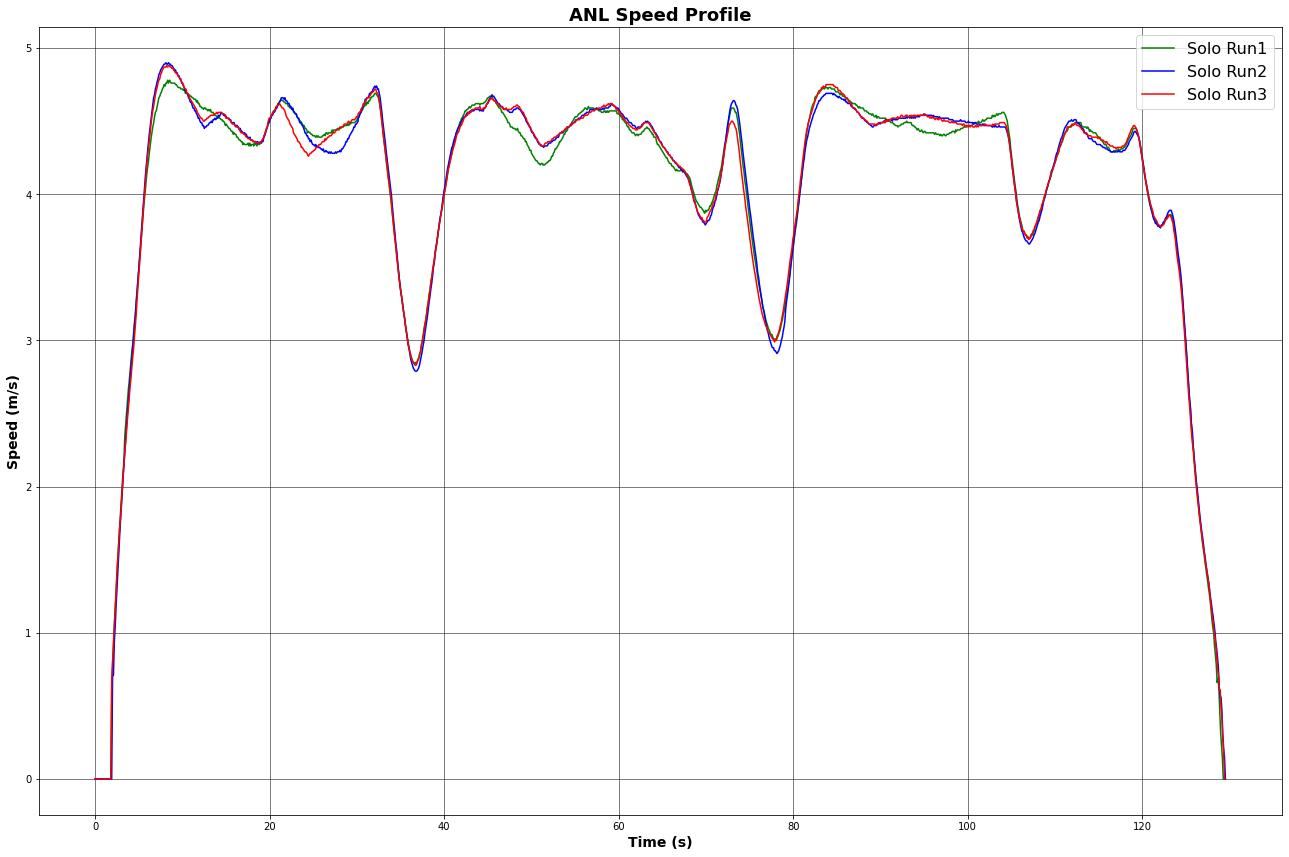
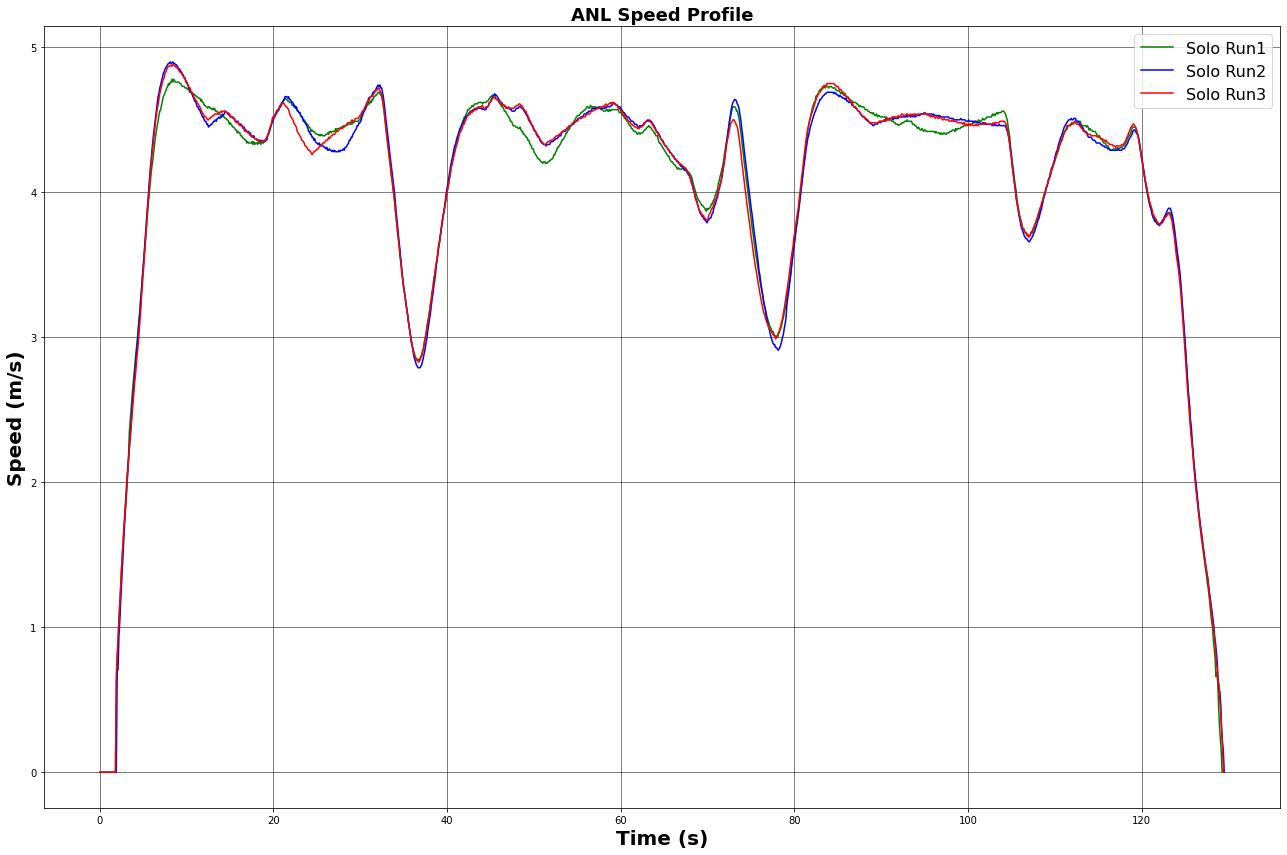
modified the plot tick

diff --git a/src/tools/eco-metric-analysis/DataManager.py b/src/tools/eco-metric-analysis/DataManager.py
@@ -33,45 +33,48 @@ class DataManager:
             roundNo = 0
             
             fig1, ax1 = plt.subplots(figsize=(18,12))                
-            ax1.set_xlabel('Time (s)', fontsize = 14, fontweight='bold')
-            ax1.set_ylabel('Trans_oil_temp_CAN__C', fontsize = 14, fontweight='bold')
+            ax1.set_xlabel('Time (s)', fontsize = 20, fontweight='bold')
+            ax1.set_ylabel('Trans_oil_temp_CAN__C', fontsize = 20, fontweight='bold')
             ax1.set_title('Transmission Oil Temperature [C]', fontsize = 18, fontweight = 'bold')
             ax1.grid(color = 'black', linestyle = '-', linewidth = 0.5)
             ax1.set_ylim(0,50)
-            
+            # Set tick parameters
+            ax1.tick_params(axis='both', which='major', labelsize=16)  # Major ticks
+            ax1.tick_params(axis='both', which='minor', labelsize=14)  # Minor ticks
+                        
             
             fig2, ax2 = plt.subplots(figsize=(18,12))                
-            ax2.set_xlabel('Time (s)', fontsize = 14, fontweight='bold')
-            ax2.set_ylabel('Motor_1_temp_calc_DMCM1__C', fontsize = 14, fontweight='bold')
+            ax2.set_xlabel('Time (s)', fontsize = 20, fontweight='bold')
+            ax2.set_ylabel('Motor_1_temp_calc_DMCM1__C', fontsize = 20, fontweight='bold')
             ax2.set_title('Motor Temperature [C]', fontsize = 18, fontweight = 'bold')
             ax2.grid(color = 'black', linestyle = '-', linewidth = 0.5)
             ax2.set_ylim(0,50)
             
             fig3, ax3 = plt.subplots(figsize=(18,12))                
-            ax3.set_xlabel('Time (s)', fontsize = 14, fontweight='bold')
-            ax3.set_ylabel('Motor_1_inverter_temp_sensor1_DMCM1__C', fontsize = 14, fontweight='bold')
+            ax3.set_xlabel('Time (s)', fontsize = 20, fontweight='bold')
+            ax3.set_ylabel('Motor_1_inverter_temp_sensor1_DMCM1__C', fontsize = 20, fontweight='bold')
             ax3.set_title('Motor Inverter Temperature [C]', fontsize = 18, fontweight = 'bold')
             ax3.grid(color = 'black', linestyle = '-', linewidth = 0.5)
             ax3.set_ylim(0,50)
             
             
             fig4, ax4 = plt.subplots(figsize=(18,12))                
-            ax4.set_xlabel('Time (s)', fontsize = 14, fontweight='bold')
-            ax4.set_ylabel('HVBatt_electronics_coolant_pump_command_HPCM2__per', fontsize = 14, fontweight='bold')
+            ax4.set_xlabel('Time (s)', fontsize = 20, fontweight='bold')
+            ax4.set_ylabel('HVBatt_electronics_coolant_pump_command_HPCM2__per', fontsize = 18, fontweight='bold')
             ax4.set_title('Coolant Pump Command [%]', fontsize = 18, fontweight = 'bold')
             ax4.grid(color = 'black', linestyle = '-', linewidth = 0.5)
-            ax4.set_ylim(0,60)
+            ax4.set_ylim(0,80)
             
             fig5, ax5 = plt.subplots(figsize=(18,12))                
-            ax5.set_xlabel('Time (s)', fontsize = 14, fontweight='bold')
-            ax5.set_ylabel('HVBatt_coolant_temp_sensor_1_BECM__C', fontsize = 14, fontweight='bold')
+            ax5.set_xlabel('Time (s)', fontsize = 20, fontweight='bold')
+            ax5.set_ylabel('HVBatt_coolant_temp_sensor_1_BECM__C', fontsize = 20, fontweight='bold')
             ax5.set_title('HV Battery Coolant Temperature Sensor [C]', fontsize = 18, fontweight = 'bold')
             ax5.grid(color = 'black', linestyle = '-', linewidth = 0.5)
             ax5.set_ylim(0,50)
             
             fig6, ax6 = plt.subplots(figsize=(18,12))                
-            ax6.set_xlabel('Time (s)', fontsize = 14, fontweight='bold')
-            ax6.set_ylabel('HVAC_AC_Compressor', fontsize = 14, fontweight='bold')
+            ax6.set_xlabel('Time (s)', fontsize = 20, fontweight='bold')
+            ax6.set_ylabel('HVAC_AC_Compressor', fontsize = 20, fontweight='bold')
             ax6.set_title('AC compressor [W]', fontsize = 18, fontweight = 'bold')
             ax6.grid(color = 'black', linestyle = '-', linewidth = 0.5)
             # ax6.set_ylim(0,50)
@@ -80,7 +83,7 @@ class DataManager:
                 self.startTime = self.config['Dyno']['StartTime_EcoDriving'][index] if fileLocation == 'eco-driving' else self.config['Dyno']['StartTime_SoloRun'][index]
                 self.endTime = self.config['Dyno']['EndTime_EcoDriving'][index] if fileLocation == 'eco-driving' else self.config['Dyno']['EndTime_SoloRun'][index]
                 
-                logFileName = self.home_directory + '/Desktop/voices-log/dyno/' + fileLocation + '/' + logFile +'.csv'
+                logFileName = self.home_directory + '/Desktop/deb-anl-xil/data/voices-log/dyno/' + fileLocation + '/' + logFile +'.csv'
                 df = pd.read_csv(logFileName)
                 
                 startTimeIndex, endTimeIndex = self.getStartAndEndTimeIndex(df)
@@ -180,7 +183,7 @@ class DataManager:
         
         def plotDiagram(leadVehicleLogFileList, fileLocation):
             for index, leadVehicleLogFile in enumerate(leadVehicleLogFileList):
-                logFileName = self.home_directory + '/Desktop/voices-log/log/' + fileLocation + '/' + leadVehicleLogFile +'.csv'
+                logFileName = self.home_directory + '/Desktop/deb-anl-xil/data/voices-log/log/' + fileLocation + '/' + leadVehicleLogFile +'.csv'
                 df = pd.read_csv(logFileName)           
                 startIndex = next((idx for idx, val in df['LeadVehicleSpeed'].items() if val > 0), None)
                 endIndex = next((idx+1 for idx, val in reversed(list(df['HostVehicleSpeed'].items())) if val > 0), None)
@@ -236,7 +239,7 @@ class DataManager:
         
         def plotDiagram(leadVehicleLogFileList, fileLocation):
             for index, leadVehicleLogFile in enumerate(leadVehicleLogFileList):
-                logFileName = self.home_directory + '/Desktop/voices-log/log/' + fileLocation + '/' + leadVehicleLogFile +'.csv'
+                logFileName = self.home_directory + '/Desktop/deb-anl-xil/data/voices-log/log/' + fileLocation + '/' + leadVehicleLogFile +'.csv'
                 df = pd.read_csv(logFileName)           
                 startIndex = next((idx for idx, val in df['LeadVehicleSpeed'].items() if val > 0), None)
                 endIndex = next((idx+1 for idx, val in reversed(list(df['HostVehicleSpeed'].items())) if val > 0), None)
@@ -251,7 +254,7 @@ class DataManager:
 
                 fig, ax1 = plt.subplots(figsize=(18,12))
                 
-                ax1.set_xlabel('Time (s)', fontsize = 14, fontweight='bold')
+                ax1.set_xlabel('Time (s)', fontsize = 20, fontweight='bold')
                 ax1.plot(time, relativeDistance, label = 'Inter-Vehicle Distance', c = "orange")
                 ax1.plot(time, leadVehicleSpeed, label = 'Lead Vehicle (UCLA) Speed', c = "blue")
                 ax1.plot(time, hostVehicleSpeed, label = 'Ego Vehicle (ANL) Speed', c = "green")
@@ -294,7 +297,7 @@ class DataManager:
                 timeNameList[f"time{i}"], relativeDistanceNameList[f"relativeDistance{i}"], leadVehicleSpeedNameList[f"leadVehicleSpeed{i}"], hostVehicleSpeedNameList[f"hostVehicleSpeed{i}"] = ([] for i in range(4))
                 
             for index, leadVehicleLogFile in enumerate(leadVehicleLogFileList):
-                logFileName = self.home_directory + '/Desktop/voices-log/log/' + fileLocation + '/' + leadVehicleLogFile +'.csv'
+                logFileName = self.home_directory + '/Desktop/deb-anl-xil/data/voices-log/log/' + fileLocation + '/' + leadVehicleLogFile +'.csv'
                 df = pd.read_csv(logFileName)           
                 startIndex = next((idx for idx, val in df['LeadVehicleSpeed'].items() if val > 0), None)
                 endIndex = next((idx+1 for idx, val in reversed(list(df['HostVehicleSpeed'].items())) if val > 0), None)
@@ -310,8 +313,8 @@ class DataManager:
             
             fig, ax1 = plt.subplots(figsize=(18,12))
 
-            ax1.set_xlabel('Time (s)', fontsize = 14, fontweight='bold')
-            ax1.set_ylabel('Speed (m/s)', fontsize = 14, fontweight='bold')
+            ax1.set_xlabel('Time (s)', fontsize = 20, fontweight='bold')
+            ax1.set_ylabel('Speed (m/s)', fontsize = 20, fontweight='bold')
             colorList = ['green', 'blue', 'red', 'darkcyan', 'orange', 'navy', 'yellow']
             roundNo = 0
             
